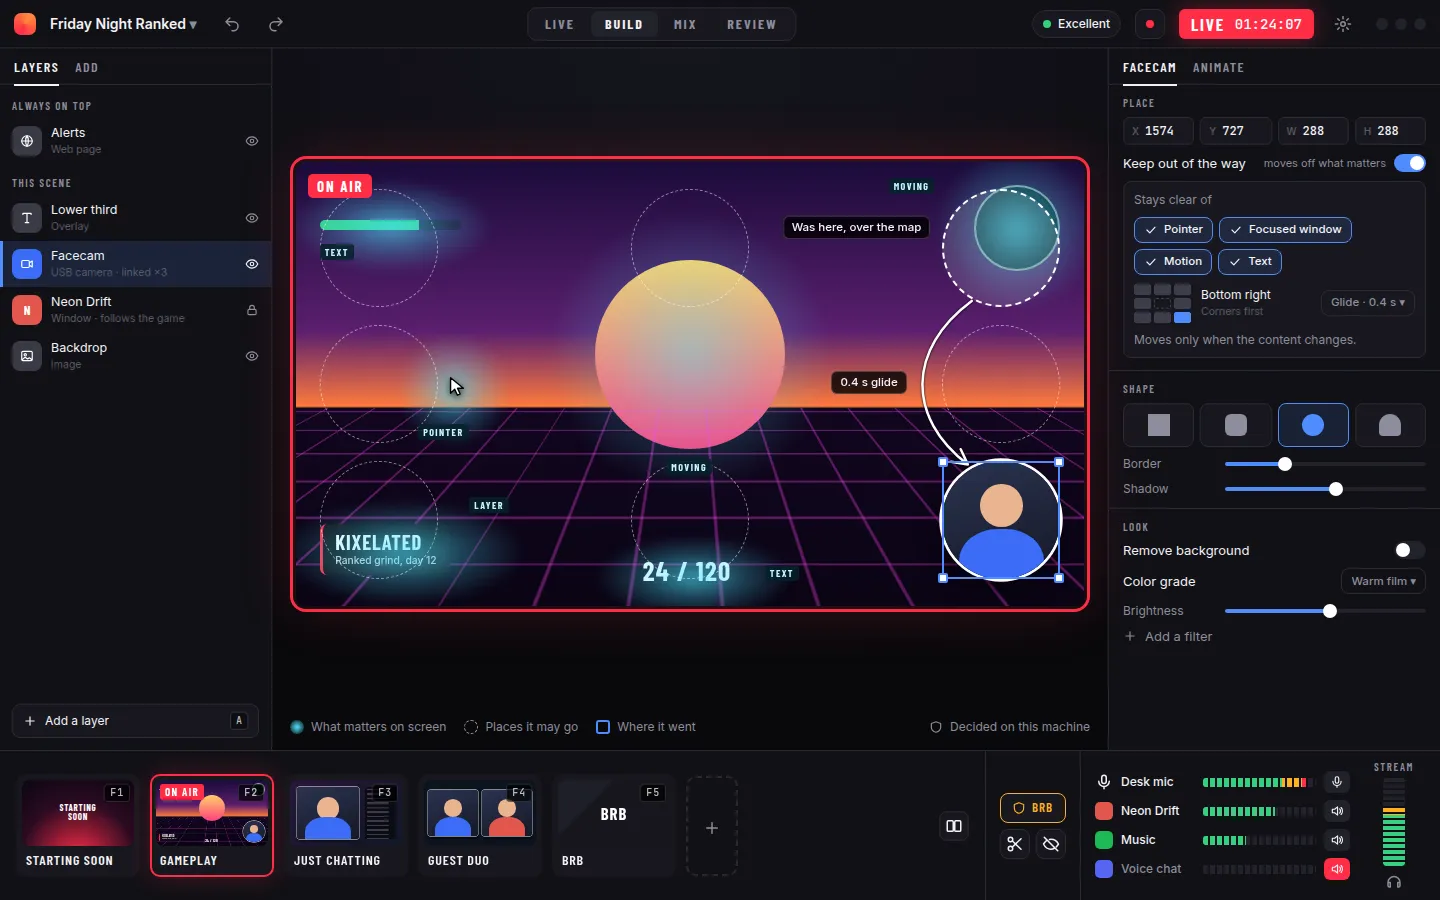
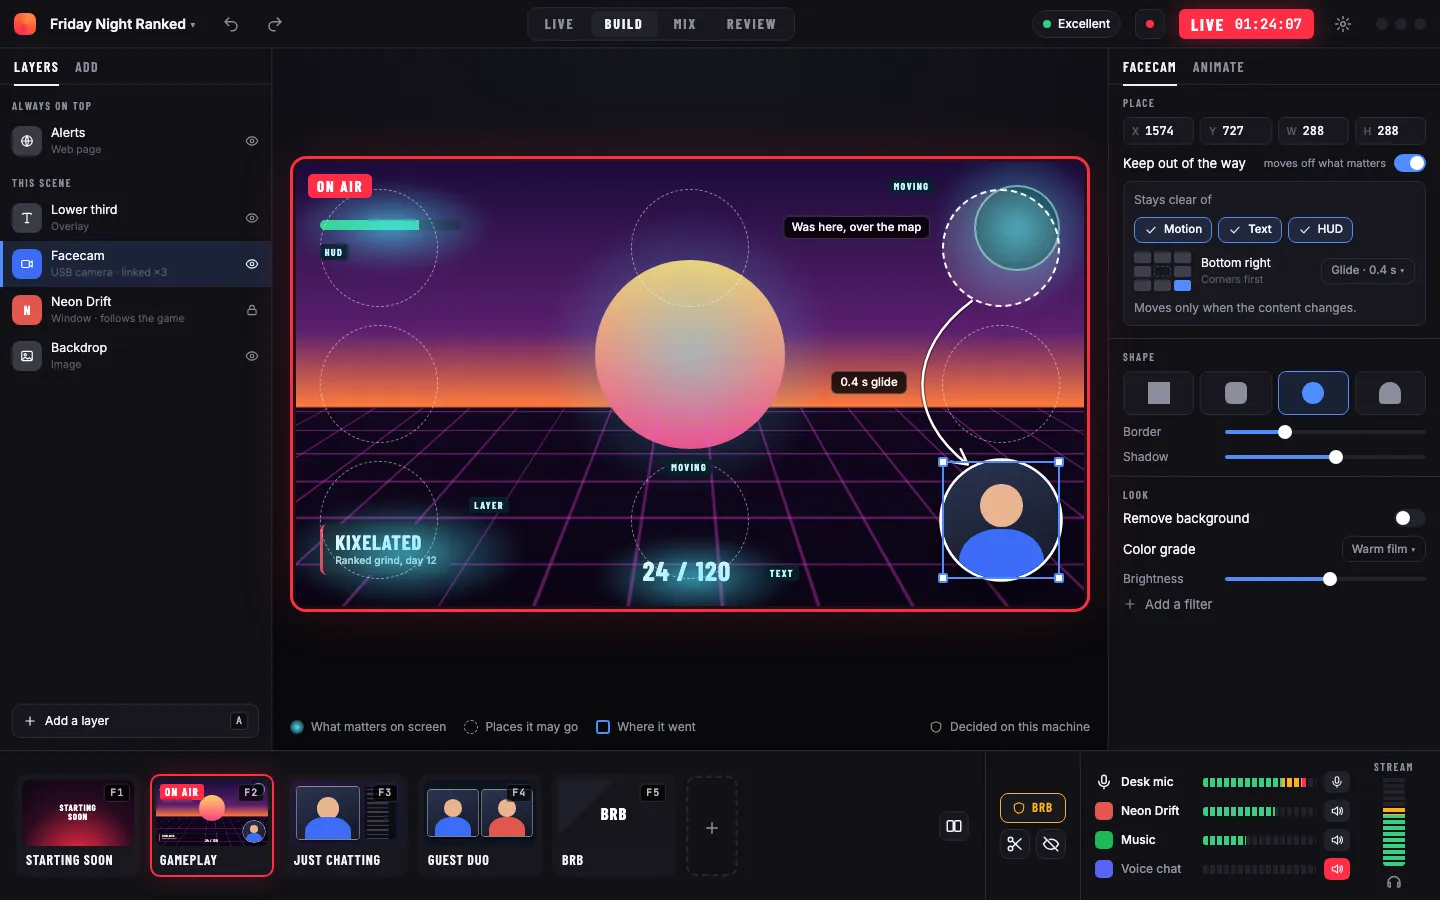
quest(m1/auto-place): drop the pointer and focused window from the mock-up
The plan reads neither, since moq reports neither, so the autoplace frame
now shows only motion, text, and a HUD.

diff --git a/quest/m0/ux/mock/later.html b/quest/m0/ux/mock/later.html
@@ -271,20 +271,19 @@ const preset=(name,blocks,on)=>`<div class="al-pre ${on?'on':''}"><div>${blocks.
 const mvt=(name,inner,o={})=>`<div class="mv-t ${o.st||''}"><div class="th">${inner}</div><div class="mv-n">${o.key?`<kbd>${o.key}</kbd>`:I(o.icon,'sm')}<span class="grow">${name}</span>${o.st=='air'?'<em>ON AIR</em>':o.st=='cued'?'<em>NEXT</em>':o.live?'<i class="dot" style="background:var(--air)"></i>':''}</div></div>`;
 
 const V={
- 'autoplace':{label:'Camera auto-placement',cls:'Bd',note:'<b>Camera auto-placement.</b> With Keep out of the way on, the camera weighs a few slots against what matters on screen (the pointer, the focused window, motion, text) and glides to the clearest one. It decides on this machine and moves only when the content changes, so it never jitters.',
+ 'autoplace':{label:'Camera auto-placement',cls:'Bd',note:'<b>Camera auto-placement.</b> With Keep out of the way on, the camera weighs a few slots against what matters on screen (motion, text, a HUD that holds still) and glides to the clearest one. It decides on this machine and moves only when the content changes, so it never jitters.',
    html:()=>topbar('BUILD')+layersCol()+stg(pic('game'),{cls:'ap',
      over:`<div class="ap-o">
        <i class="ap-heat" style="left:-1%;top:4%;width:26%;height:21%"></i><i class="ap-heat" style="right:-2%;top:-3%;width:21%;height:36%"></i>
        <i class="ap-heat" style="left:32%;top:11%;width:36%;height:64%;opacity:.75"></i><i class="ap-heat" style="left:38%;bottom:-3%;width:25%;height:19%"></i>
-       <i class="ap-heat" style="left:-2%;bottom:0;width:31%;height:24%"></i><i class="ap-heat" style="left:13%;top:39%;width:14%;height:25%"></i>
+       <i class="ap-heat" style="left:-2%;bottom:0;width:31%;height:24%"></i>
        <i class="ap-slot" style="left:3%;top:6%"></i><i class="ap-slot" style="left:42.5%;top:6%"></i>
        <i class="ap-slot" style="left:3%;top:36.67%"></i><i class="ap-slot" style="right:3%;top:36.67%"></i>
        <i class="ap-slot" style="left:3%;bottom:6%"></i><i class="ap-slot" style="left:42.5%;bottom:6%"></i>
        <i class="ap-slot was" style="right:3%;top:6%"></i>
-       <span class="ap-hl" style="left:3%;top:18.5%">TEXT</span><span class="ap-hl" style="right:19%;top:3.5%">MOVING</span>
+       <span class="ap-hl" style="left:3%;top:18.5%">HUD</span><span class="ap-hl" style="right:19%;top:3.5%">MOVING</span>
        <span class="ap-hl" style="left:47%;top:67%">MOVING</span><span class="ap-hl" style="left:59.5%;bottom:5.5%">TEXT</span>
-       <span class="ap-hl" style="left:22%;bottom:21%">LAYER</span><span class="ap-hl" style="left:15.5%;top:59%">POINTER</span>
-       <div style="position:absolute;left:19%;top:48%">${CUR}</div>
+       <span class="ap-hl" style="left:22%;bottom:21%">LAYER</span>
        <svg class="ap-arrow" viewBox="0 0 1600 900" preserveAspectRatio="none"><path d="M1372 282C1240 380 1240 520 1364 614M1349.700 583.200 1364 614 1330.400 608.600"/></svg>
      </div>
      <span class="ap-note" style="right:19.500%;top:12%">Was here, over the map</span>
@@ -296,7 +295,7 @@ const V={
      const s=f.querySelectorAll('.side:not(.l) .sec');
      s[0].querySelector('.f').innerHTML='<span><em>X</em>1574</span><span><em>Y</em>727</span><span><em>W</em>288</span><span><em>H</em>288</span>';
      s[0].insertAdjacentHTML('beforeend',`<div class="ap-box"><span class="dim">Stays clear of</span>
-       <div class="ap-chips">${['Pointer','Focused window','Motion','Text'].map(n=>`<span class="chip">${I('check','sm')}${n}</span>`).join('')}</div>
+       <div class="ap-chips">${['Motion','Text','HUD'].map(n=>`<span class="chip">${I('check','sm')}${n}</span>`).join('')}</div>
        <div class="row" style="gap:10px"><div class="ap-grid"><i></i><i></i><i></i><i></i><i class="x"></i><i></i><i></i><i></i><i class="on"></i></div><div class="grow">Bottom right<small>Corners first</small></div><span class="chip">Glide · 0.4 s ▾</span></div>
        <span class="dim">Moves only when the content changes.</span></div>`);
      s[3].remove();s[2].style.border=0}},

diff --git a/quest/m1/auto-place.md b/quest/m1/auto-place.md
@@ -22,9 +22,8 @@ ready; local first with a hosted model as an opt-in tie-breaker).
   on the GPU a few times a second: where it moves, where it is dense with
   edges and text, and what stays put while the rest moves, which is a HUD.
   The inspector says which of these it stays clear of, and each can be
-  switched off. The frame also draws the pointer and the focused window as
-  signals; moq reports neither a pointer nor a window's place on its
-  display, so they are left out unless its listing gains them.
+  switched off. It reads neither the pointer nor the focused window, since
+  moq reports neither a pointer nor a window's place on its display.
 - **What it decides:** the slot whose area matters least, among the corners
   and edge middles that fit the layer, inside the canvas's margins.
 - **When it moves:** when the scene changes, when the content under it
